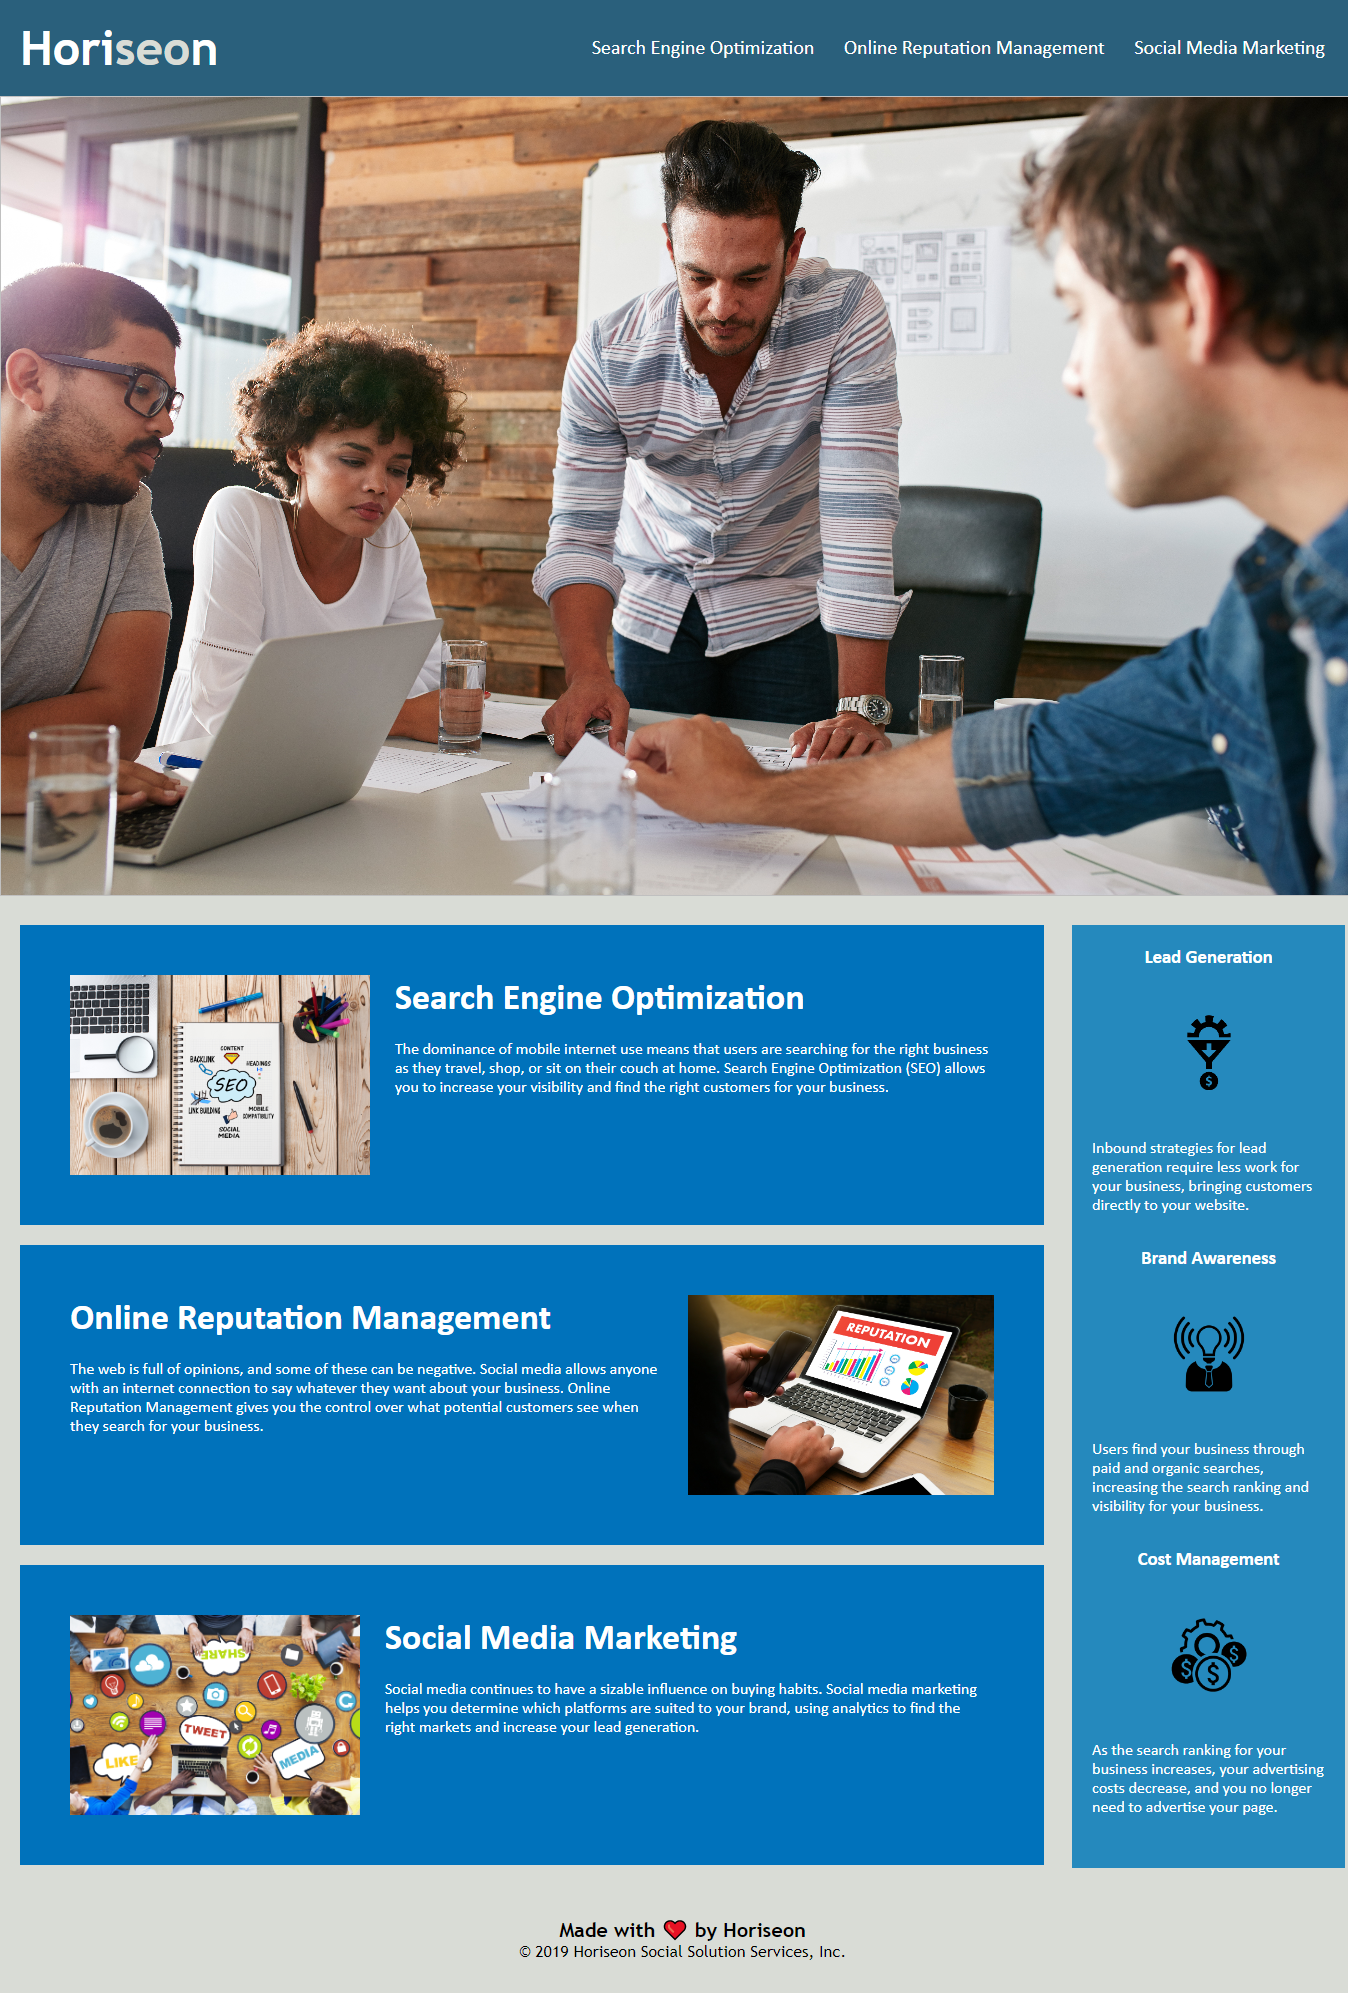
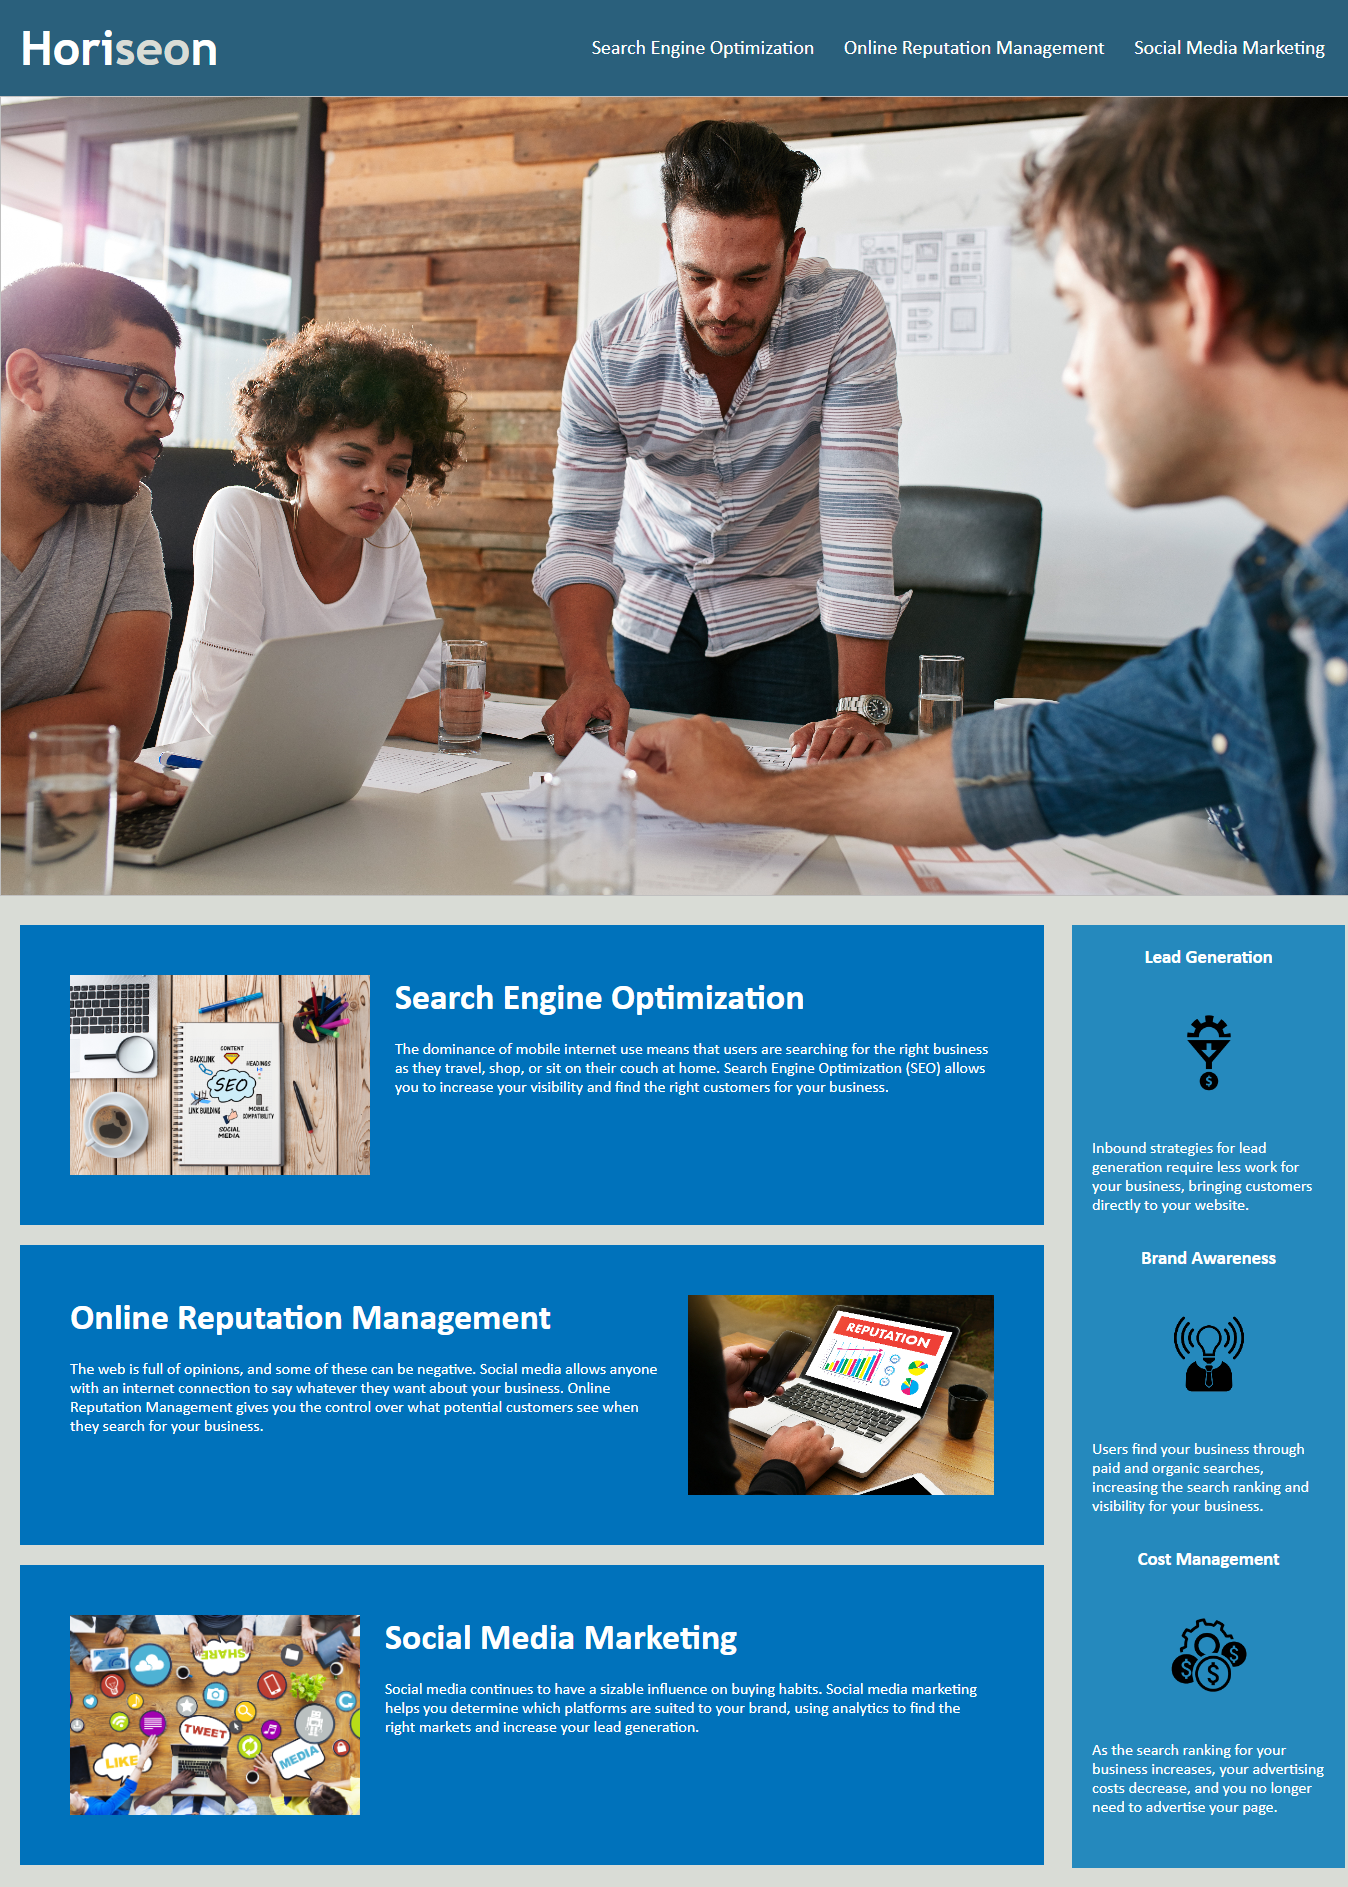
removed the footer and consolidated css

diff --git a/Develop/assets/css/style.css b/Develop/assets/css/style.css
@@ -25,8 +25,8 @@ body {
   font-size: 48px;
 }
 
-/* any .seo class, within the h1 element, within an .header class will have its text color changed */
-.header h1 .seo {
+/* changes the text color of the .seo class */
+.seo {
   color: #d9dcd6;
 }
 
@@ -37,10 +37,6 @@ body {
   float: right;
   font-family: "Gill Sans", "Gill Sans MT", Calibri, "Trebuchet MS", sans-serif;
   font-size: 20px;
-}
-
-/* any ul elements with a parent of nav, under a .header class, will not have any styling applied to them */
-.header nav ul {
   list-style-type: none;
 }
 
@@ -50,7 +46,7 @@ body {
   margin-left: 25px;
 }
 
-/* all anchor tags have that text color and no text decoration */
+/* all anchor tags have that specified text color and no text decoration */
 a {
   color: #ffffff;
   text-decoration: none;
@@ -75,7 +71,7 @@ p {
   float: left;
   margin-right: 25px;
 }
-/* code under these classes will have their position set to float to the right/left and have a fixed margin */
+/* the images with these classes will have their position set to float to the right/left and have a fixed margin between them and the text */
 .float-right {
   float: right;
   margin-left: 25px;
@@ -100,74 +96,34 @@ p {
   background-color: #2589bd;
 }
 
-/* code under the .benefit- classes have set margins, text color, how they will be aligned in their given box, what type of display, and their possible max width. */
-.benefit-lead {
-  margin-bottom: 32px;
-  color: #ffffff;
-}
-
-.benefit-brand {
-  margin-bottom: 32px;
-  color: #ffffff;
-}
-
+/* sets a bottom margin and text color */
+.benefit-lead,
+.benefit-brand,
 .benefit-cost {
   margin-bottom: 32px;
   color: #ffffff;
 }
 
-.benefit-lead h3 {
-  margin-bottom: 10px;
-  text-align: center;
-}
-
-.benefit-brand h3 {
-  margin-bottom: 10px;
-  text-align: center;
-}
-
+/* sets a bottom margin and how the text will align */
+.benefit-lead h3,
+.benefit-brand h3,
 .benefit-cost h3 {
   margin-bottom: 10px;
   text-align: center;
 }
 
-.benefit-lead img {
-  display: block;
-  margin: 10px auto;
-  max-width: 150px;
-}
-
-.benefit-brand img {
-  display: block;
-  margin: 10px auto;
-  max-width: 150px;
-}
-
+/* sets the display type to block, a margin, and a max width */
+.benefit-lead img,
+.benefit-brand img,
 .benefit-cost img {
   display: block;
   margin: 10px auto;
   max-width: 150px;
 }
 
-/* Under the classes of .search-engine-optimization, .online-reputation-management, and .social-media-marketing, this sets the bottom margin, padding, height, font styles, background and text colors. */
-.search-engine-optimization {
-  margin-bottom: 20px;
-  padding: 50px;
-  height: 300px;
-  font-family: "Gill Sans", "Gill Sans MT", Calibri, "Trebuchet MS", sans-serif;
-  background-color: #0072bb;
-  color: #ffffff;
-}
-
-.online-reputation-management {
-  margin-bottom: 20px;
-  padding: 50px;
-  height: 300px;
-  font-family: "Gill Sans", "Gill Sans MT", Calibri, "Trebuchet MS", sans-serif;
-  background-color: #0072bb;
-  color: #ffffff;
-}
-
+/* Under these classes, it sets the bottom margin, padding, height, font styles, background and text colors. */
+.search-engine-optimization,
+.online-reputation-management,
 .social-media-marketing {
   margin-bottom: 20px;
   padding: 50px;
@@ -178,29 +134,15 @@ p {
 }
 
 /* sets the max height of the respective classes in the img element */
-.search-engine-optimization img {
-  max-height: 200px;
-}
-
-.online-reputation-management img {
-  max-height: 200px;
-}
-
+.search-engine-optimization img,
+.online-reputation-management img,
 .social-media-marketing img {
   max-height: 200px;
 }
 
 /* sets the bottom margin as well as the font size for the respective classes in the h2 element*/
-.search-engine-optimization h2 {
-  margin-bottom: 20px;
-  font-size: 36px;
-}
-
-.online-reputation-management h2 {
-  margin-bottom: 20px;
-  font-size: 36px;
-}
-
+.search-engine-optimization h2,
+.online-reputation-management h2,
 .social-media-marketing h2 {
   margin-bottom: 20px;
   font-size: 36px;

diff --git a/Develop/index.html b/Develop/index.html
@@ -24,7 +24,7 @@
             </ul>
         </nav>
     </header>
-    <img class="hero">
+    <img class="hero" aria-label="Ted, Tina, and Tom (left to right) appreciating Tim's recent manicure">
     <section class="content">
         <article id="search-engine-optimization" class="search-engine-optimization">
             <img src="./assets/images/search-engine-optimization.jpg" class="float-left" />
@@ -71,12 +71,12 @@
             </p>
         </aside>
     </section>
-    <footer class="footer">
+    <!-- <footer class="footer">
         <h2>Made with ❤ by Horiseon</h2>
         <p>
             &copy; 2019 Horiseon Social Solution Services, Inc.
         </p>
-    </footer>
+    </footer> -->
 </body>
 
 </html>

diff --git a/README.md b/README.md
@@ -2,4 +2,6 @@
 
 This is a mock up of a homepage for Horiseon.
 
-![screenshot](./assets/images/screenshot.png)
+https://paulgibes.github.io/HoriseonMockUp
+
+![picture](./Develop/assets/images/screenshot.png)
